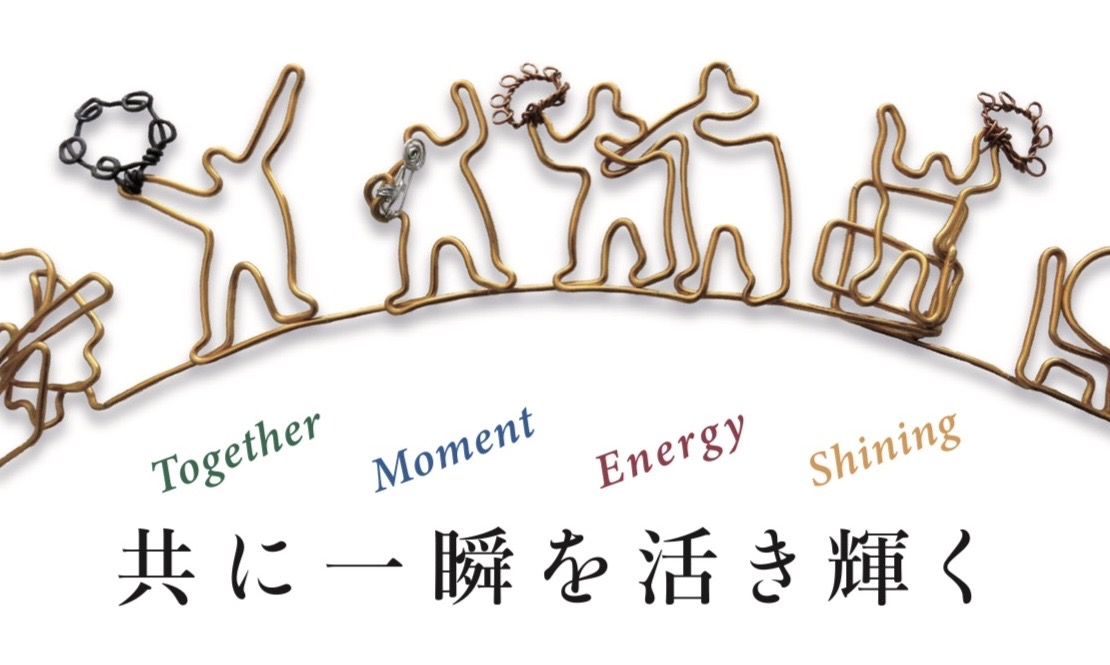
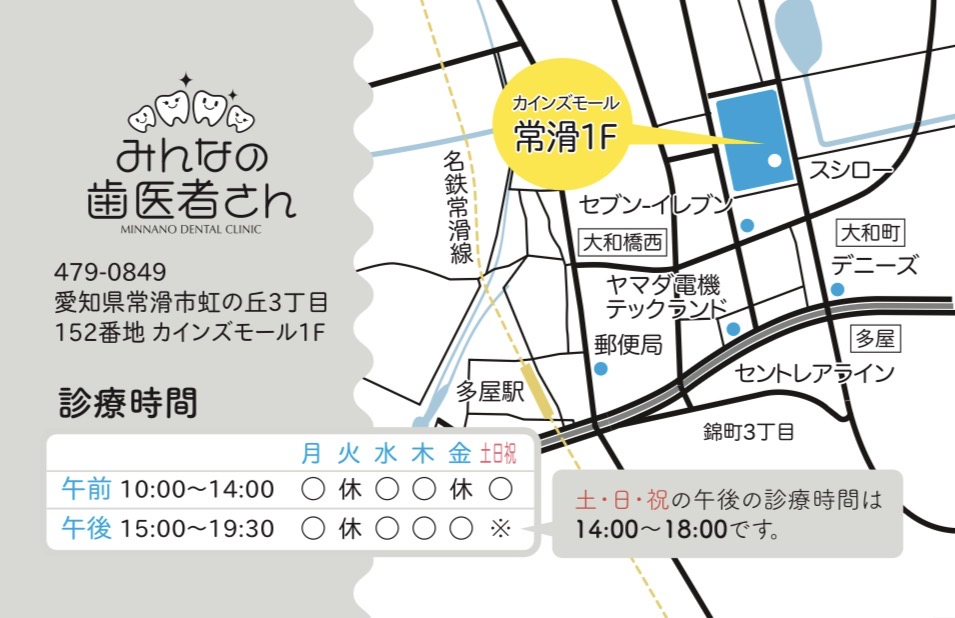
Add files via upload

diff --git a/index.html b/index.html
@@ -1,1 +1,2 @@
-<!doctype html><html lang="ja"><head><meta charset="utf-8"><meta name="viewport" content="width=device-width, initial-scale=1"><meta name="theme-color" content="#2e6299"><title>山城満喜子 | デジタル名刺</title><style>*{box-sizing:border-box}body{margin:0;background:#f2f5f9;color:#1d2b39;font-family:-apple-system,BlinkMacSystemFont,"Noto Sans JP",sans-serif}.wrap{max-width:650px;margin:auto;padding:22px 16px 50px}h1{text-align:center;font-size:22px;margin:10px 0 6px}.sub{text-align:center;color:#53677a;font-size:14px;margin:0 0 24px}.card{background:white;border-radius:15px;padding:10px;margin:0 0 18px;box-shadow:0 4px 20px #16324b14}.card img{display:block;width:100%;height:auto;border-radius:8px}.label{font-size:13px;color:#53677a;margin:0 0 8px 4px}.save{display:block;text-align:center;background:#2e6299;color:white;font-weight:bold;text-decoration:none;border-radius:12px;padding:18px;margin:28px 0 10px;font-size:18px}.note{text-align:center;color:#647484;font-size:13px;line-height:1.7}footer{text-align:center;font-size:12px;color:#8997a4;margin-top:30px}</style></head><body><main class="wrap"><h1>山城 満喜子</h1><p class="sub">介護支援専門員 ｜ セントレアライフ常滑</p><section class="card"><p class="label">名刺・表</p><img src="front.jpg" alt="山城満喜子 名刺 表面"></section><section class="card"><p class="label">名刺・裏</p><img src="back.jpg" alt="山城満喜子 名刺 裏面"></section><a class="save" href="contact.vcf" download="山城満喜子.vcf">連絡先に保存</a><p class="note">ボタンを押して連絡先ファイルを開き、<br>スマートフォンの案内に従って登録してください。<br>アプリのインストールは不要です。</p><footer>セントレアライフ常滑</footer></main></body></html>
+<!doctype html>
+<html lang="ja"><head><meta charset="utf-8"><meta name="viewport" content="width=device-width, initial-scale=1"><meta name="theme-color" content="#ffe500"><title>吉川 満喜子 | みんなの歯医者さん</title><style>body{margin:0;background:#f7f7f5;font-family:-apple-system,BlinkMacSystemFont,'Hiragino Kaku Gothic ProN',sans-serif;color:#242424}.wrap{max-width:600px;margin:auto;padding:22px 16px 48px;text-align:center}h1{font-size:24px;margin:16px 0 4px}p{color:#555;margin:0 0 22px}.photo{width:100%;display:block;border-radius:13px;box-shadow:0 4px 18px #0002;margin:0 0 18px}.button{display:block;background:#1379b9;color:white;padding:17px;border-radius:12px;font-weight:700;text-decoration:none;font-size:18px;margin:20px 0 12px}.sub{display:flex;gap:12px}.sub a{flex:1;background:white;color:#1379b9;border:1px solid #c8dbe7;border-radius:10px;padding:12px 4px;text-decoration:none;font-weight:600}small{display:block;color:#777;margin-top:22px}</style></head><body><main class="wrap"><h1>吉川 満喜子</h1><p>みんなの歯医者さん</p><img class="photo" src="front.jpg" alt="吉川満喜子 名刺 表"><img class="photo" src="back.jpg" alt="みんなの歯医者さん 名刺 裏・アクセスと診療時間"><a class="button" href="yoshikawa.vcf" download="yoshikawa.vcf">連絡先に保存</a><div class="sub"><a href="tel:09014151244">電話する</a><a href="mailto:yoshikawa@minnanoha.net">メールする</a></div><small>iPhoneでは連絡先を表示後「新規連絡先を作成」などを選んで保存してください。</small></main></body></html>
